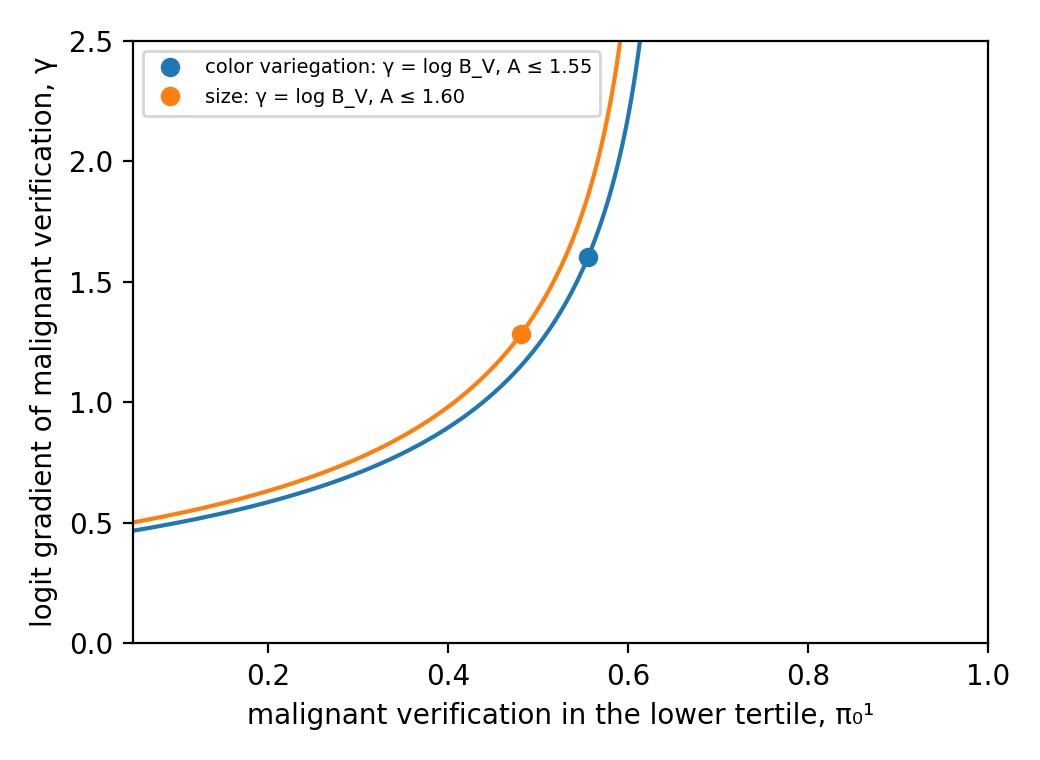
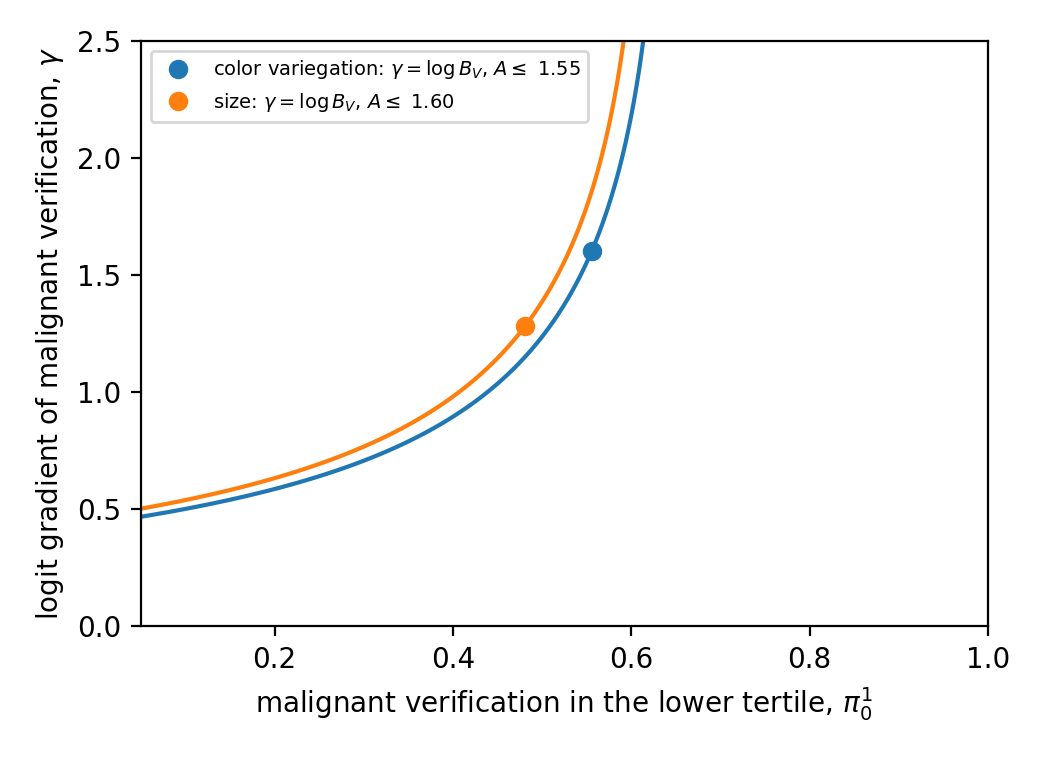
Word export for the supplement; italic variables in figure labels; Fig. S3 redrawn from stored results with mathtext

Changed region(s): [[0.0308, 0.0303, 0.9846, 0.9684]]

diff --git a/paper/build_docx.py b/paper/build_docx.py
@@ -1,11 +1,11 @@
 #!/usr/bin/env python3
 # -*- coding: utf-8 -*-
-"""Build paper.docx from paper.md with pandoc.
+"""Build paper.docx and supplementary.docx from the markdown files with pandoc.
 
 Display equations become native Word equations (OMML, via LaTeX); inline notation such as Δ_{M0,k}, ψ_L or *s*_min
 becomes real subscripts and superscripts; the four figures are inserted above their captions. Styles come from a
 reference document: A4, Times New Roman, black headings, bordered tables.
-Run from paper/:  python3 build_docx.py   ->  paper.docx
+Run from paper/:  python3 build_docx.py [paper|supplementary|all]   ->  paper.docx, supplementary.docx
 """
 import os
 import re
@@ -25,21 +25,46 @@ DISPLAY = {
         r"$$\Delta_{M0,k} - \Delta_{M2,k} = \text{E}\left[\log g(\tilde{X}) \mid t = 1\right] - \text{E}\left[\log g(\tilde{X}) \mid t = 0\right].$$",
 }
 WIDTHS = {8: [11, 14, 9, 15, 15, 15, 10, 11], 3: [22, 33, 45], 6: [11, 24, 13, 23, 15, 14]}   # relative column widths
-FIGS = {1: "fig1_mechanism.png", 2: "fig2_learned_reversal.png", 3: "fig3_intervention_bridge.png", 4: "fig4_external_boundary.png"}
+FIGS = {"1": "fig1_mechanism.png", "2": "fig2_learned_reversal.png", "3": "fig3_intervention_bridge.png", "4": "fig4_external_boundary.png",
+        "S1": "figS1_phase_diagram.png", "S2": "figS2_finetune.png", "S3": "figS3_logit_benchmark.png", "S4": "figS4_icdl.png"}
+DOCS = {"paper": ("paper.md", "paper.docx", True), "supplementary": ("supplementary.md", "supplementary.docx", False)}
 
-# a subscript follows an italic letter (*a*), a Greek letter, E, OR or RR
-SUB = re.compile(r"(\*[A-Za-z]\*|[ΔψπκμτσθE]|OR|RR)_(\{[^}]*\}|[A-Za-z0-9ηω]+)")
+# a subscript follows an italic letter (*a*), a Greek letter, ĝ, E, OR or RR
+SUB = re.compile(r"(\*[A-Za-z]\*|[ΔψπκμτσθE]|ĝ|OR|RR)_(\{[^}]*\}|[A-Za-z0-9ηω]+)")
+# plain-text symbols that need italics and a subscript
+PLAIN = [(re.compile(r"τ̂_k"), "τ̂~k~"), (re.compile(r"\*z\*_k,i"), "*z*~k,i~"), (re.compile(r"π_η,i"), "π~η,i~"),
+         (re.compile(r"θ\*_m\b"), "θ\\*~m~"), (re.compile(r"(?<![\w*`])s_(low|high)\b"), r"*s*~\1~"),
+         (re.compile(r"(?<![\w*`])z_k\b"), "*z*~k~"), (re.compile(r"(?<![\w*`])Q_\{([^}]*)\}"), r"*Q*~\1~"),
+         (re.compile(r"(?<![\w*`])Q_a\b"), "*Q*~a~")]
 
 
 def sub_text(body):
-    body = body.strip("{}")
+    body = body.strip("{}").replace("\\|", "|")
     return body.replace("\\", "\\\\").replace(" ", "\\ ").replace("|", "\\|")
 
 
-def widths(sep):
+def auto_widths(rows):
+    """Relative widths from the longest cell text of each column, capped so that no column dominates."""
+    cols = [[c.strip() for c in re.split(r"(?<!\\)\|", r.strip().strip("|"))] for r in rows]
+    n = max(len(c) for c in cols)
+    size, word = [0] * n, [0] * n
+    for r in cols:
+        for i, c in enumerate(r):
+            c = re.sub(r"[*`\\]", "", c)
+            size[i] = max(size[i], min(len(c), 40))
+            word[i] = max([word[i]] + [len(x) for x in c.split()])
+    floor = [max(word[i] + 2, 5) for i in range(n)]            # never narrower than the longest word
+    budget = 96 - 2.5 * n                                     # 9-point characters per line, less cell padding
+    extra = [max(0, 0.6 * size[i] - floor[i]) for i in range(n)]
+    room = max(0, budget - sum(floor))
+    tot = sum(extra) or 1
+    return [round(floor[i] + room * extra[i] / tot) for i in range(n)]
+
+
+def widths(sep, w=None):
     cells = sep.strip().strip("|").split("|")
-    w = WIDTHS.get(len(cells))
-    if not w:
+    w = w or WIDTHS.get(len(cells))
+    if not w or len(w) != len(cells):
         return sep
     out = []
     for c, n in zip(cells, w):
@@ -48,21 +73,36 @@ def widths(sep):
     return "| " + " | ".join(out) + " |"
 
 
-def convert(md):
+def math_segment(s):
+    s = s.replace("π_t^d", "π~t~^d^")
+    s = re.sub(r"(?:\*s\*|(?<![\w*])s)∗", "*s*^\\*^", s)
+    for pat, rep in PLAIN:
+        s = pat.sub(rep, s)
+    return SUB.sub(lambda x: f"{x.group(1)}~{sub_text(x.group(2))}~", s)
+
+
+def convert(md, fixed_widths=True):
     out = []
-    for line in md.split("\n"):
+    lines = md.split("\n")
+    for k, line in enumerate(lines):
         if re.match(r"^\|\s*:?-{3,}", line):
-            out.append(widths(line))
+            w = None
+            if not fixed_widths:
+                j = k + 1
+                while j < len(lines) and lines[j].startswith("|"):
+                    j += 1
+                w = auto_widths([lines[k - 1]] + lines[k + 1:j])
+            out.append(widths(line, w))
             continue
         if line.strip() in DISPLAY:
             out.append(DISPLAY[line.strip()])
             continue
-        m = re.match(r"^\*\*Fig\. (\d)\.\*\*", line)
+        m = re.match(r"^\*\*Fig\. (S?\d)\.\*\*", line)
         if m:
-            out.append(f"![](figures/{FIGS[int(m.group(1))]}){{width=6.2in}}\n")
+            out.append(f"![](figures/{FIGS[m.group(1)]}){{width=6.2in}}\n")
         if not line.startswith("#"):
-            line = line.replace("π_t^d", "π~t~^d^")
-            line = SUB.sub(lambda x: f"{x.group(1)}~{sub_text(x.group(2))}~", line)
+            parts = line.split("`")                      # leave code spans such as file names untouched
+            line = "`".join(math_segment(p) if i % 2 == 0 else p for i, p in enumerate(parts))
         out.append(line)
     return "\n".join(out)
 
@@ -81,6 +121,9 @@ def reference_doc(path):
                               '<w:basedOn w:val="Compact"/><w:qFormat/><w:pPr><w:spacing w:before="20" w:after="20"/></w:pPr>'
                               '<w:rPr><w:sz w:val="18"/><w:szCs w:val="18"/></w:rPr></w:style></w:styles>')
                 x = x.replace("<w:sz w:val=\"24\"/>", "<w:sz w:val=\"22\"/>")
+                x = re.sub(r'(<w:style [^>]*w:styleId="VerbatimChar"[^>]*>.*?<w:rPr>).*?(</w:rPr>)',
+                           r'\1<w:rFonts w:ascii="Courier New" w:hAnsi="Courier New" w:cs="Courier New"/><w:sz w:val="18"/><w:szCs w:val="18"/>\2', x, count=1, flags=re.S)
+                x = re.sub(r"<w:tblCellMar>.*?</w:tblCellMar>", lambda m: m.group(0).replace('"108"', '"57"'), x, count=1, flags=re.S)
                 # bordered tables
                 x = re.sub(r'(<w:style w:[^>]*w:styleId="Table"[^>]*>.*?<w:tblPr>.*?<w:tblInd [^>]*/>)',
                            r'\1<w:tblBorders><w:top w:val="single" w:sz="4" w:space="0" w:color="000000"/><w:left w:val="single" w:sz="4" w:space="0" w:color="000000"/>'
@@ -99,14 +142,15 @@ def reference_doc(path):
     os.remove(src)
 
 
-def main():
-    md = convert(open(os.path.join(HERE, "paper.md"), encoding="utf-8").read())
+def build(name):
+    src_md, out_name, fixed = DOCS[name]
+    md = convert(open(os.path.join(HERE, src_md), encoding="utf-8").read(), fixed)
     tmp = tempfile.mkdtemp()
-    src = os.path.join(tmp, "paper_docx.md")
+    src = os.path.join(tmp, "doc.md")
     open(src, "w", encoding="utf-8").write(md)
     ref = os.path.join(tmp, "reference.docx")
     reference_doc(ref)
-    out = os.path.join(HERE, "paper.docx")
+    out = os.path.join(HERE, out_name)
     subprocess.run(["pandoc", src, "-f", "markdown+pipe_tables+subscript+superscript+tex_math_dollars", "-t", "docx",
                     "--reference-doc", ref, "--shift-heading-level-by=-1", "--resource-path", HERE, "-o", out], check=True)
     shutil.rmtree(tmp)
@@ -133,4 +177,7 @@ def table_text(path):
 
 
 if __name__ == "__main__":
-    main()
+    import sys
+    which = sys.argv[1] if len(sys.argv) > 1 else "all"
+    for name in (DOCS if which == "all" else [which]):
+        build(name)

diff --git a/Code/vr11_paper_figures.py b/Code/vr11_paper_figures.py
@@ -55,10 +55,10 @@ def fig1():
     fig, (a, b) = plt.subplots(1, 2, figsize=(7.8, 3.4), gridspec_kw={"width_ratios": [1.3, 1]})
     a.set_axis_off(); a.set_xlim(0, 11); a.set_ylim(-0.6, 7.6)
     W_, H_ = 2.6, 0.8
-    nodes = {"U": (1.4, 6.6, "Patient U", True), "G": (5.5, 6.6, "Site G", False),
-             "D": (1.4, 4.4, "Disease D", True), "X": (5.5, 4.4, "Appearance X", False),
-             "C": (9.6, 4.4, "Concept C", False), "W": (1.4, 2.2, "Clinical W", True),
-             "F": (5.5, 2.2, "Flag F", False), "S": (5.5, 0.0, "Biopsy S", False), "Y": (9.6, 0.0, "Label Y", False)}
+    nodes = {"U": (1.4, 6.6, "Patient $U$", True), "G": (5.5, 6.6, "Site $G$", False),
+             "D": (1.4, 4.4, "Disease $D$", True), "X": (5.5, 4.4, "Appearance $X$", False),
+             "C": (9.6, 4.4, "Concept $C$", False), "W": (1.4, 2.2, "Clinical $W$", True),
+             "F": (5.5, 2.2, "Flag $F$", False), "S": (5.5, 0.0, "Biopsy $S$", False), "Y": (9.6, 0.0, "Label $Y$", False)}
     for k, (x, y, lab, latent) in nodes.items():
         a.add_patch(FancyBboxPatch((x - W_ / 2, y - H_ / 2), W_, H_, boxstyle="round,pad=0.03",
                                    fc="#ffffff" if latent else "#f3f2ef", ec=INK, lw=0.9, ls="--" if latent else "-"))
@@ -80,7 +80,7 @@ def fig1():
     arr("U", "S", ORANGE, 0.55)
     a.add_patch(FancyArrowPatch(edge(nodes["D"][:2], nodes["Y"][:2]), edge(nodes["Y"][:2], nodes["D"][:2]), arrowstyle="-|>",
                                 mutation_scale=8, color=INK, lw=0.9, connectionstyle="arc3,rad=-0.12", shrinkA=0, shrinkB=0))
-    a.text(9.6, 0.75, "Y = D·S", ha="center", fontsize=7.5, color=INK2)
+    a.text(9.6, 0.75, r"$Y = D \cdot S$", ha="center", fontsize=7.5, color=INK2)
     a.text(8.0, 7.05, "orange: inputs to\nverification", fontsize=6.8, color=ORANGE)
     a.text(0.0, 7.4, "a", fontsize=11, fontweight="bold")
     regions(b, 6)
@@ -206,8 +206,8 @@ def fig4():
 
 def figS1():
     sm = J("vr5_representation.json")["summary"]["ft"]
-    keys = [("decision", "Decision contrast"), ("layer3", "Layer-3 intervention"), ("readout_Y", "Common readout, target Y"),
-            ("readout_S", "Common readout, target S")]
+    keys = [("decision", "Decision contrast"), ("layer3", "Layer-3 intervention"), ("readout_Y", "Common readout, target $Y$"),
+            ("readout_S", "Common readout, target $S$")]
     fig, axes = plt.subplots(1, 4, figsize=(8.6, 2.9))
     cs = R.IMAGE_CONCEPTS
     for ax, (k, t) in zip(axes, keys):
@@ -219,7 +219,7 @@ def figS1():
         ax.set_yticks(range(len(cs))); ax.set_yticklabels([CL[c] for c in cs] if ax is axes[0] else [])
         ax.set_title(t, loc="left", fontsize=8)
     h, l = axes[0].get_legend_handles_labels()
-    fig.legend(h, ["M0 fine-tuned on Y", "M2 fine-tuned on verified lesions"], loc="upper center", ncol=2, frameon=False)
+    fig.legend(h, ["M0 fine-tuned on $Y$", "M2 fine-tuned on verified lesions"], loc="upper center", ncol=2, frameon=False)
     fig.tight_layout(rect=(0, 0, 1, 0.86)); save(fig, "figS2_finetune.png")
 
 
@@ -228,7 +228,7 @@ def figS2():
     rows = [r for r in d["sim_rows"] if r["method"] == "icdl_kl"]
     st = sorted({r["s_true"] for r in rows}); sa = sorted({r["s_assumed"] for r in rows})
     fig, axes = plt.subplots(1, 2, figsize=(7.4, 3.0))
-    for ax, key, title in ((axes[0], "true_p_in_oracle_interval", "True p inside oracle interval"),
+    for ax, key, title in ((axes[0], "true_p_in_oracle_interval", "True $p$ inside oracle interval"),
                            (axes[1], "abs_log_err", r"Mean $|\log \hat p - \log p|$")):
         M = np.full((len(st), len(sa)), np.nan)
         for r in rows:

diff --git a/Code/vr41_marginal_site.py b/Code/vr41_marginal_site.py
@@ -105,7 +105,11 @@ def main():
         R.log(f"{c}: std RR {rr0:.2f} {np.round(e['standardized']['rr_y_ci95'], 2)} MH logOR {lor0:+.2f} joint floor {jf}; "
               f"logit benchmark p0 ≥ {e['logit_benchmark']['p0_threshold']}")
         R.save_json(out, "vr41_marginal_site.json")
-    # hình: đường biên A(p₀, γ) = A_max trên mặt phẳng (p₀, γ)
+    plot_benchmark(out)
+
+
+def plot_benchmark(out):
+    """Hình: đường biên A(p₀, γ) = A_max trên mặt phẳng (p₀, γ); ký hiệu viết bằng mathtext."""
     import matplotlib
     matplotlib.use("Agg")
     import matplotlib.pyplot as plt
@@ -116,9 +120,9 @@ def main():
     for c, col, lab in (("color_variegation", "C0", "color variegation"), ("size", "C1", "size")):
         lb = out["concepts"][c]["logit_benchmark"]
         ax.contour(Pg, Gg, Ag, levels=[lb["A_max95"]], colors=col)
-        ax.plot([lb["p0_threshold"]], [lb["gamma"]], "o", color=col, label=f"{lab}: γ = log B_V, A ≤ {lb['A_max95']:.2f}")
-    ax.set_xlabel("malignant verification in the lower tertile, π₀¹")
-    ax.set_ylabel("logit gradient of malignant verification, γ")
+        ax.plot([lb["p0_threshold"]], [lb["gamma"]], "o", color=col, label=f"{lab}: $\\gamma = \\log B_V$, $A \\leq$ {lb['A_max95']:.2f}")
+    ax.set_xlabel(r"malignant verification in the lower tertile, $\pi_0^1$")
+    ax.set_ylabel(r"logit gradient of malignant verification, $\gamma$")
     ax.legend(fontsize=7, loc="upper left")
     fig.tight_layout()
     figd = os.path.join(os.path.dirname(R.RES), "paper", "figures"); os.makedirs(figd, exist_ok=True)
@@ -127,4 +131,8 @@ def main():
 
 
 if __name__ == "__main__":
-    main()
+    import sys
+    if "--plot-only" in sys.argv:
+        plot_benchmark(json.load(open(os.path.join(R.RES, "vr41_marginal_site.json"))))
+    else:
+        main()
